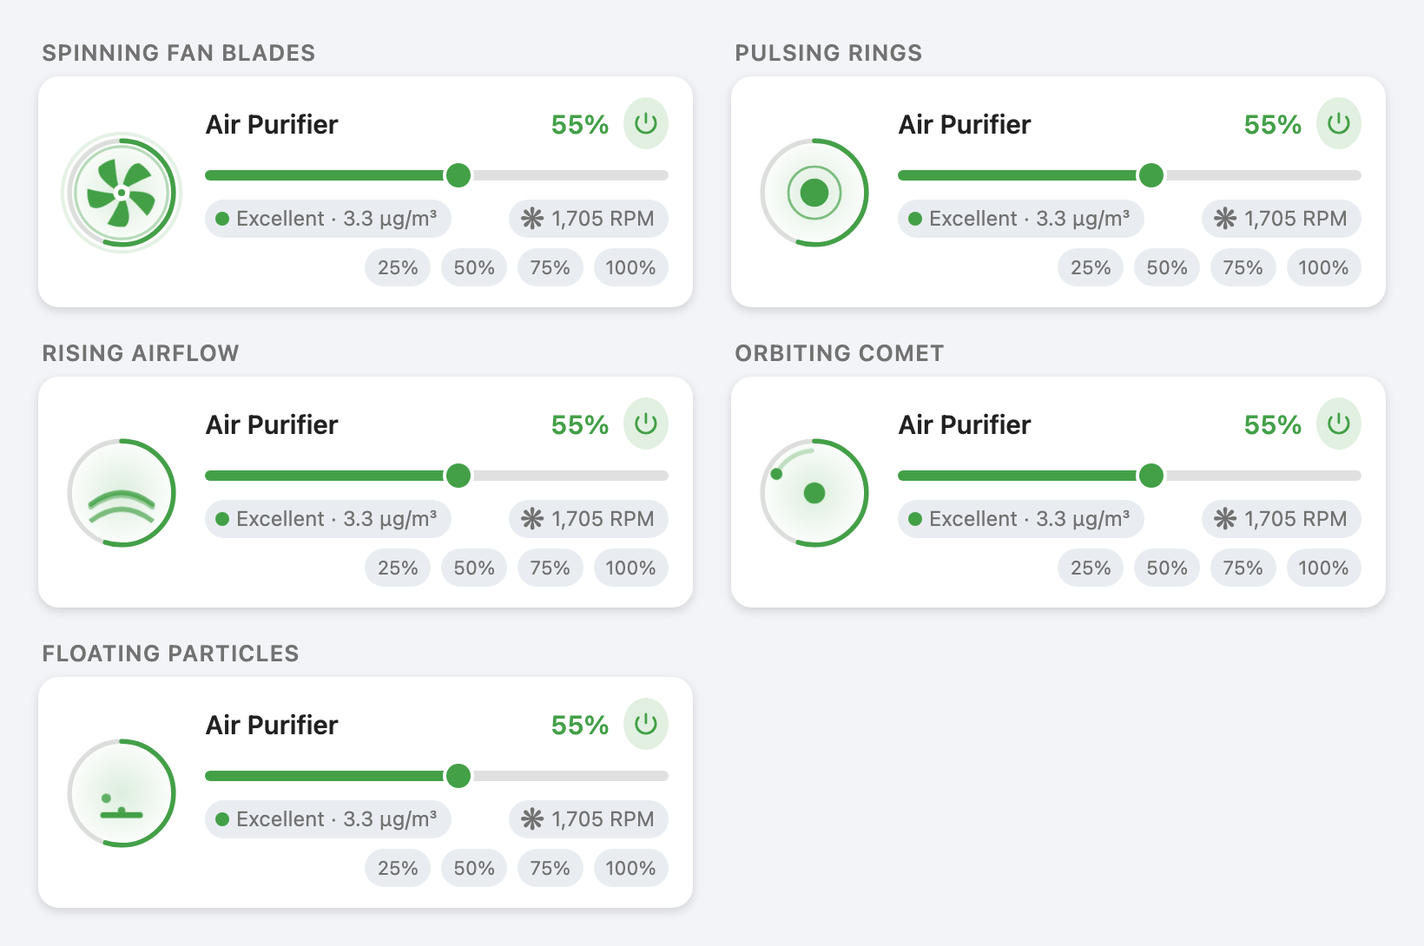
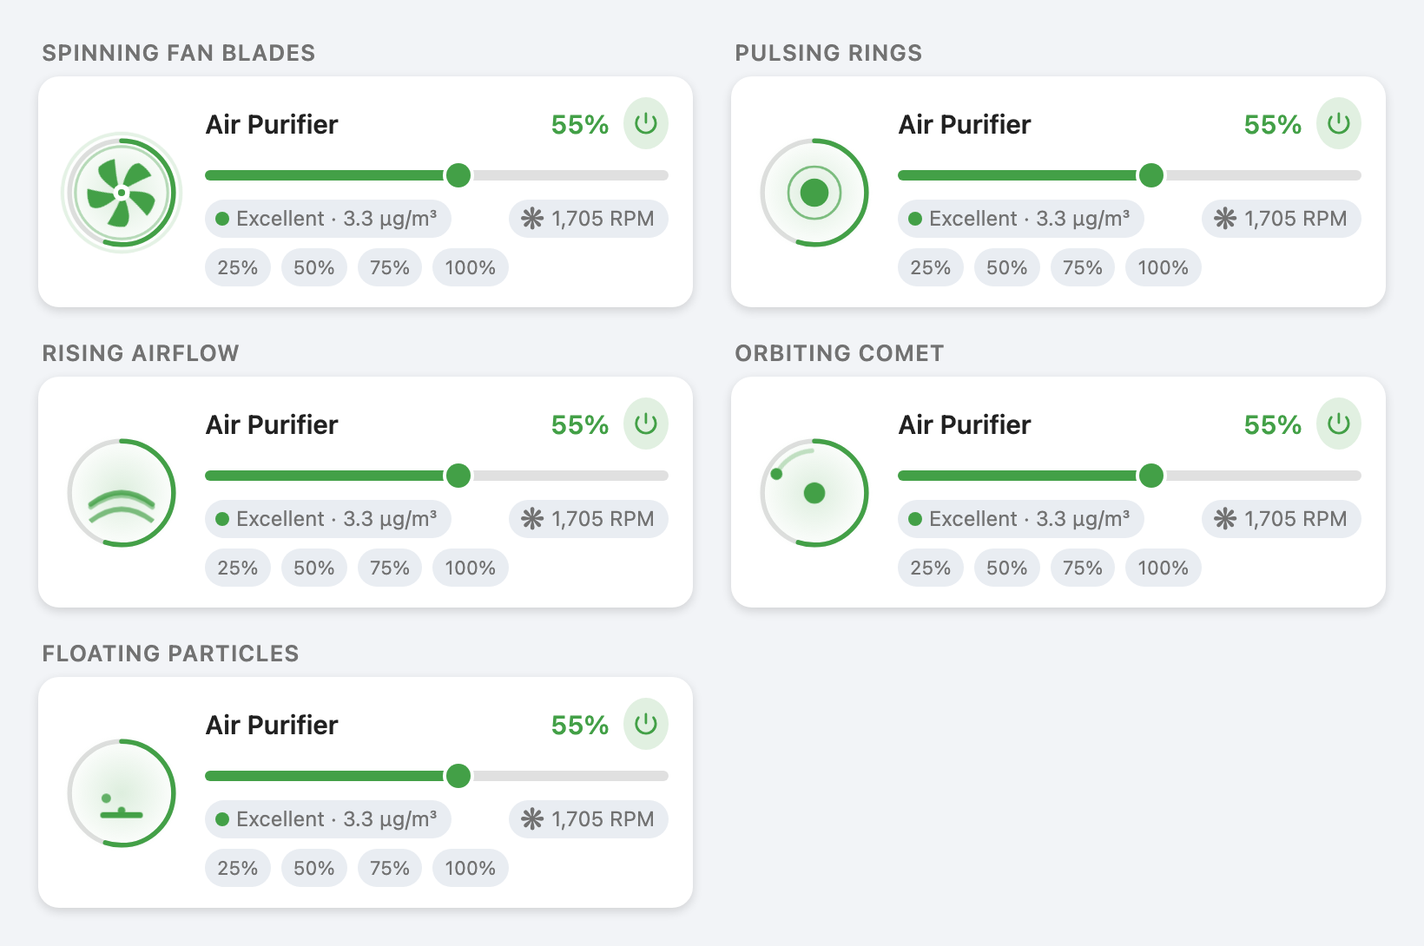
Align the speed presets to the left by default
`preset_align` still accepts left, center and right; only the default
changed, and the readme screenshots were regenerated with it.

diff --git a/dist/air-purifier-card.js b/dist/air-purifier-card.js
@@ -1,4 +1,4 @@
-/*! air-purifier-card v2.0.0 | MIT | https://github.com/iharosi/air-purifier-card */
+/*! air-purifier-card v2.1.0 | MIT | https://github.com/iharosi/air-purifier-card */
 function t(t,e,s,i){var r,n=arguments.length,a=n<3?e:null===i?i=Object.getOwnPropertyDescriptor(e,s):i;if("object"==typeof Reflect&&"function"==typeof Reflect.decorate)a=Reflect.decorate(t,e,s,i);else for(var o=t.length-1;o>=0;o--)(r=t[o])&&(a=(n<3?r(a):n>3?r(e,s,a):r(e,s))||a);return n>3&&a&&Object.defineProperty(e,s,a),a}"function"==typeof SuppressedError&&SuppressedError;const e=globalThis,s=e.ShadowRoot&&(void 0===e.ShadyCSS||e.ShadyCSS.nativeShadow)&&"adoptedStyleSheets"in Document.prototype&&"replace"in CSSStyleSheet.prototype,i=Symbol(),r=new WeakMap;let n=class{constructor(t,e,s){if(this._$cssResult$=!0,s!==i)throw Error("CSSResult is not constructable. Use `unsafeCSS` or `css` instead.");this.cssText=t,this.t=e}get styleSheet(){let t=this.o;const e=this.t;if(s&&void 0===t){const s=void 0!==e&&1===e.length;s&&(t=r.get(e)),void 0===t&&((this.o=t=new CSSStyleSheet).replaceSync(this.cssText),s&&r.set(e,t))}return t}toString(){return this.cssText}};const a=s?t=>t:t=>t instanceof CSSStyleSheet?(t=>{let e="";for(const s of t.cssRules)e+=s.cssText;return(t=>new n("string"==typeof t?t:t+"",void 0,i))(e)})(t):t,{is:o,defineProperty:c,getOwnPropertyDescriptor:l,getOwnPropertyNames:h,getOwnPropertySymbols:p,getPrototypeOf:d}=Object,u=globalThis,f=u.trustedTypes,g=f?f.emptyScript:"",m=u.reactiveElementPolyfillSupport,v=(t,e)=>t,$={toAttribute(t,e){switch(e){case Boolean:t=t?g:null;break;case Object:case Array:t=null==t?t:JSON.stringify(t)}return t},fromAttribute(t,e){let s=t;switch(e){case Boolean:s=null!==t;break;case Number:s=null===t?null:Number(t);break;case Object:case Array:try{s=JSON.parse(t)}catch(t){s=null}}return s}},y=(t,e)=>!o(t,e),_={attribute:!0,type:String,converter:$,reflect:!1,useDefault:!1,hasChanged:y};Symbol.metadata??=Symbol("metadata"),u.litPropertyMetadata??=new WeakMap;let b=class extends HTMLElement{static addInitializer(t){this._$Ei(),(this.l??=[]).push(t)}static get observedAttributes(){return this.finalize(),this._$Eh&&[...this._$Eh.keys()]}static createProperty(t,e=_){if(e.state&&(e.attribute=!1),this._$Ei(),this.prototype.hasOwnProperty(t)&&((e=Object.create(e)).wrapped=!0),this.elementProperties.set(t,e),!e.noAccessor){const s=Symbol(),i=this.getPropertyDescriptor(t,s,e);void 0!==i&&c(this.prototype,t,i)}}static getPropertyDescriptor(t,e,s){const{get:i,set:r}=l(this.prototype,t)??{get(){return this[e]},set(t){this[e]=t}};return{get:i,set(e){const n=i?.call(this);r?.call(this,e),this.requestUpdate(t,n,s)},configurable:!0,enumerable:!0}}static getPropertyOptions(t){return this.elementProperties.get(t)??_}static _$Ei(){if(this.hasOwnProperty(v("elementProperties")))return;const t=d(this);t.finalize(),void 0!==t.l&&(this.l=[...t.l]),this.elementProperties=new Map(t.elementProperties)}static finalize(){if(this.hasOwnProperty(v("finalized")))return;if(this.finalized=!0,this._$Ei(),this.hasOwnProperty(v("properties"))){const t=this.properties,e=[...h(t),...p(t)];for(const s of e)this.createProperty(s,t[s])}const t=this[Symbol.metadata];if(null!==t){const e=litPropertyMetadata.get(t);if(void 0!==e)for(const[t,s]of e)this.elementProperties.set(t,s)}this._$Eh=new Map;for(const[t,e]of this.elementProperties){const s=this._$Eu(t,e);void 0!==s&&this._$Eh.set(s,t)}this.elementStyles=this.finalizeStyles(this.styles)}static finalizeStyles(t){const e=[];if(Array.isArray(t)){const s=new Set(t.flat(1/0).reverse());for(const t of s)e.unshift(a(t))}else void 0!==t&&e.push(a(t));return e}static _$Eu(t,e){const s=e.attribute;return!1===s?void 0:"string"==typeof s?s:"string"==typeof t?t.toLowerCase():void 0}constructor(){super(),this._$Ep=void 0,this.isUpdatePending=!1,this.hasUpdated=!1,this._$Em=null,this._$Ev()}_$Ev(){this._$ES=new Promise(t=>this.enableUpdating=t),this._$AL=new Map,this._$E_(),this.requestUpdate(),this.constructor.l?.forEach(t=>t(this))}addController(t){(this._$EO??=new Set).add(t),void 0!==this.renderRoot&&this.isConnected&&t.hostConnected?.()}removeController(t){this._$EO?.delete(t)}_$E_(){const t=new Map,e=this.constructor.elementProperties;for(const s of e.keys())this.hasOwnProperty(s)&&(t.set(s,this[s]),delete this[s]);t.size>0&&(this._$Ep=t)}createRenderRoot(){const t=this.shadowRoot??this.attachShadow(this.constructor.shadowRootOptions);return((t,i)=>{if(s)t.adoptedStyleSheets=i.map(t=>t instanceof CSSStyleSheet?t:t.styleSheet);else for(const s of i){const i=document.createElement("style"),r=e.litNonce;void 0!==r&&i.setAttribute("nonce",r),i.textContent=s.cssText,t.appendChild(i)}})(t,this.constructor.elementStyles),t}connectedCallback(){this.renderRoot??=this.createRenderRoot(),this.enableUpdating(!0),this._$EO?.forEach(t=>t.hostConnected?.())}enableUpdating(t){}disconnectedCallback(){this._$EO?.forEach(t=>t.hostDisconnected?.())}attributeChangedCallback(t,e,s){this._$AK(t,s)}_$ET(t,e){const s=this.constructor.elementProperties.get(t),i=this.constructor._$Eu(t,s);if(void 0!==i&&!0===s.reflect){const r=(void 0!==s.converter?.toAttribute?s.converter:$).toAttribute(e,s.type);this._$Em=t,null==r?this.removeAttribute(i):this.setAttribute(i,r),this._$Em=null}}_$AK(t,e){const s=this.constructor,i=s._$Eh.get(t);if(void 0!==i&&this._$Em!==i){const t=s.getPropertyOptions(i),r="function"==typeof t.converter?{fromAttribute:t.converter}:void 0!==t.converter?.fromAttribute?t.converter:$;this._$Em=i;const n=r.fromAttribute(e,t.type);this[i]=n??this._$Ej?.get(i)??n,this._$Em=null}}requestUpdate(t,e,s,i=!1,r){if(void 0!==t){const n=this.constructor;if(!1===i&&(r=this[t]),s??=n.getPropertyOptions(t),!((s.hasChanged??y)(r,e)||s.useDefault&&s.reflect&&r===this._$Ej?.get(t)&&!this.hasAttribute(n._$Eu(t,s))))return;this.C(t,e,s)}!1===this.isUpdatePending&&(this._$ES=this._$EP())}C(t,e,{useDefault:s,reflect:i,wrapped:r},n){s&&!(this._$Ej??=new Map).has(t)&&(this._$Ej.set(t,n??e??this[t]),!0!==r||void 0!==n)||(this._$AL.has(t)||(this.hasUpdated||s||(e=void 0),this._$AL.set(t,e)),!0===i&&this._$Em!==t&&(this._$Eq??=new Set).add(t))}async _$EP(){this.isUpdatePending=!0;try{await this._$ES}catch(t){Promise.reject(t)}const t=this.scheduleUpdate();return null!=t&&await t,!this.isUpdatePending}scheduleUpdate(){return this.performUpdate()}performUpdate(){if(!this.isUpdatePending)return;if(!this.hasUpdated){if(this.renderRoot??=this.createRenderRoot(),this._$Ep){for(const[t,e]of this._$Ep)this[t]=e;this._$Ep=void 0}const t=this.constructor.elementProperties;if(t.size>0)for(const[e,s]of t){const{wrapped:t}=s,i=this[e];!0!==t||this._$AL.has(e)||void 0===i||this.C(e,void 0,s,i)}}let t=!1;const e=this._$AL;try{t=this.shouldUpdate(e),t?(this.willUpdate(e),this._$EO?.forEach(t=>t.hostUpdate?.()),this.update(e)):this._$EM()}catch(e){throw t=!1,this._$EM(),e}t&&this._$AE(e)}willUpdate(t){}_$AE(t){this._$EO?.forEach(t=>t.hostUpdated?.()),this.hasUpdated||(this.hasUpdated=!0,this.firstUpdated(t)),this.updated(t)}_$EM(){this._$AL=new Map,this.isUpdatePending=!1}get updateComplete(){return this.getUpdateComplete()}getUpdateComplete(){return this._$ES}shouldUpdate(t){return!0}update(t){this._$Eq&&=this._$Eq.forEach(t=>this._$ET(t,this[t])),this._$EM()}updated(t){}firstUpdated(t){}};b.elementStyles=[],b.shadowRootOptions={mode:"open"},b[v("elementProperties")]=new Map,b[v("finalized")]=new Map,m?.({ReactiveElement:b}),(u.reactiveElementVersions??=[]).push("2.1.2");const x=globalThis,w=t=>t,A=x.trustedTypes,E=A?A.createPolicy("lit-html",{createHTML:t=>t}):void 0,S="$lit$",k=`lit$${Math.random().toFixed(9).slice(2)}$`,P="?"+k,C=`<${P}>`,M=document,U=()=>M.createComment(""),O=t=>null===t||"object"!=typeof t&&"function"!=typeof t,R=Array.isArray,N="[ \t\n\f\r]",T=/<(?:(!--|\/[^a-zA-Z])|(\/?[a-zA-Z][^>\s]*)|(\/?$))/g,H=/-->/g,I=/>/g,j=RegExp(`>|${N}(?:([^\\s"'>=/]+)(${N}*=${N}*(?:[^ \t\n\f\r"'\`<>=]|("|')|))|$)`,"g"),z=/'/g,D=/"/g,L=/^(?:script|style|textarea|title)$/i,B=t=>(e,...s)=>({_$litType$:t,strings:e,values:s}),q=B(1),W=B(2),F=Symbol.for("lit-noChange"),V=Symbol.for("lit-nothing"),Y=new WeakMap,Z=M.createTreeWalker(M,129);function Q(t,e){if(!R(t)||!t.hasOwnProperty("raw"))throw Error("invalid template strings array");return void 0!==E?E.createHTML(e):e}const J=(t,e)=>{const s=t.length-1,i=[];let r,n=2===e?"<svg>":3===e?"<math>":"",a=T;for(let e=0;e<s;e++){const s=t[e];let o,c,l=-1,h=0;for(;h<s.length&&(a.lastIndex=h,c=a.exec(s),null!==c);)h=a.lastIndex,a===T?"!--"===c[1]?a=H:void 0!==c[1]?a=I:void 0!==c[2]?(L.test(c[2])&&(r=RegExp("</"+c[2],"g")),a=j):void 0!==c[3]&&(a=j):a===j?">"===c[0]?(a=r??T,l=-1):void 0===c[1]?l=-2:(l=a.lastIndex-c[2].length,o=c[1],a=void 0===c[3]?j:'"'===c[3]?D:z):a===D||a===z?a=j:a===H||a===I?a=T:(a=j,r=void 0);const p=a===j&&t[e+1].startsWith("/>")?" ":"";n+=a===T?s+C:l>=0?(i.push(o),s.slice(0,l)+S+s.slice(l)+k+p):s+k+(-2===l?e:p)}return[Q(t,n+(t[s]||"<?>")+(2===e?"</svg>":3===e?"</math>":"")),i]};class K{constructor({strings:t,_$litType$:e},s){let i;this.parts=[];let r=0,n=0;const a=t.length-1,o=this.parts,[c,l]=J(t,e);if(this.el=K.createElement(c,s),Z.currentNode=this.el.content,2===e||3===e){const t=this.el.content.firstChild;t.replaceWith(...t.childNodes)}for(;null!==(i=Z.nextNode())&&o.length<a;){if(1===i.nodeType){if(i.hasAttributes())for(const t of i.getAttributeNames())if(t.endsWith(S)){const e=l[n++],s=i.getAttribute(t).split(k),a=/([.?@])?(.*)/.exec(e);o.push({type:1,index:r,name:a[2],strings:s,ctor:"."===a[1]?st:"?"===a[1]?it:"@"===a[1]?rt:et}),i.removeAttribute(t)}else t.startsWith(k)&&(o.push({type:6,index:r}),i.removeAttribute(t));if(L.test(i.tagName)){const t=i.textContent.split(k),e=t.length-1;if(e>0){i.textContent=A?A.emptyScript:"";for(let s=0;s<e;s++)i.append(t[s],U()),Z.nextNode(),o.push({type:2,index:++r});i.append(t[e],U())}}}else if(8===i.nodeType)if(i.data===P)o.push({type:2,index:r});else{let t=-1;for(;-1!==(t=i.data.indexOf(k,t+1));)o.push({type:7,index:r}),t+=k.length-1}r++}}static createElement(t,e){const s=M.createElement("template");return s.innerHTML=t,s}}function G(t,e,s=t,i){if(e===F)return e;let r=void 0!==i?s._$Co?.[i]:s._$Cl;const n=O(e)?void 0:e._$litDirective$;return r?.constructor!==n&&(r?._$AO?.(!1),void 0===n?r=void 0:(r=new n(t),r._$AT(t,s,i)),void 0!==i?(s._$Co??=[])[i]=r:s._$Cl=r),void 0!==r&&(e=G(t,r._$AS(t,e.values),r,i)),e}class X{constructor(t,e){this._$AV=[],this._$AN=void 0,this._$AD=t,this._$AM=e}get parentNode(){return this._$AM.parentNode}get _$AU(){return this._$AM._$AU}u(t){const{el:{content:e},parts:s}=this._$AD,i=(t?.creationScope??M).importNode(e,!0);Z.currentNode=i;let r=Z.nextNode(),n=0,a=0,o=s[0];for(;void 0!==o;){if(n===o.index){let e;2===o.type?e=new tt(r,r.nextSibling,this,t):1===o.type?e=new o.ctor(r,o.name,o.strings,this,t):6===o.type&&(e=new nt(r,this,t)),this._$AV.push(e),o=s[++a]}n!==o?.index&&(r=Z.nextNode(),n++)}return Z.currentNode=M,i}p(t){let e=0;for(const s of this._$AV)void 0!==s&&(void 0!==s.strings?(s._$AI(t,s,e),e+=s.strings.length-2):s._$AI(t[e])),e++}}class tt{get _$AU(){return this._$AM?._$AU??this._$Cv}constructor(t,e,s,i){this.type=2,this._$AH=V,this._$AN=void 0,this._$AA=t,this._$AB=e,this._$AM=s,this.options=i,this._$Cv=i?.isConnected??!0}get parentNode(){let t=this._$AA.parentNode;const e=this._$AM;return void 0!==e&&11===t?.nodeType&&(t=e.parentNode),t}get startNode(){return this._$AA}get endNode(){return this._$AB}_$AI(t,e=this){t=G(this,t,e),O(t)?t===V||null==t||""===t?(this._$AH!==V&&this._$AR(),this._$AH=V):t!==this._$AH&&t!==F&&this._(t):void 0!==t._$litType$?this.$(t):void 0!==t.nodeType?this.T(t):(t=>R(t)||"function"==typeof t?.[Symbol.iterator])(t)?this.k(t):this._(t)}O(t){return this._$AA.parentNode.insertBefore(t,this._$AB)}T(t){this._$AH!==t&&(this._$AR(),this._$AH=this.O(t))}_(t){this._$AH!==V&&O(this._$AH)?this._$AA.nextSibling.data=t:this.T(M.createTextNode(t)),this._$AH=t}$(t){const{values:e,_$litType$:s}=t,i="number"==typeof s?this._$AC(t):(void 0===s.el&&(s.el=K.createElement(Q(s.h,s.h[0]),this.options)),s);if(this._$AH?._$AD===i)this._$AH.p(e);else{const t=new X(i,this),s=t.u(this.options);t.p(e),this.T(s),this._$AH=t}}_$AC(t){let e=Y.get(t.strings);return void 0===e&&Y.set(t.strings,e=new K(t)),e}k(t){R(this._$AH)||(this._$AH=[],this._$AR());const e=this._$AH;let s,i=0;for(const r of t)i===e.length?e.push(s=new tt(this.O(U()),this.O(U()),this,this.options)):s=e[i],s._$AI(r),i++;i<e.length&&(this._$AR(s&&s._$AB.nextSibling,i),e.length=i)}_$AR(t=this._$AA.nextSibling,e){for(this._$AP?.(!1,!0,e);t!==this._$AB;){const e=w(t).nextSibling;w(t).remove(),t=e}}setConnected(t){void 0===this._$AM&&(this._$Cv=t,this._$AP?.(t))}}class et{get tagName(){return this.element.tagName}get _$AU(){return this._$AM._$AU}constructor(t,e,s,i,r){this.type=1,this._$AH=V,this._$AN=void 0,this.element=t,this.name=e,this._$AM=i,this.options=r,s.length>2||""!==s[0]||""!==s[1]?(this._$AH=Array(s.length-1).fill(new String),this.strings=s):this._$AH=V}_$AI(t,e=this,s,i){const r=this.strings;let n=!1;if(void 0===r)t=G(this,t,e,0),n=!O(t)||t!==this._$AH&&t!==F,n&&(this._$AH=t);else{const i=t;let a,o;for(t=r[0],a=0;a<r.length-1;a++)o=G(this,i[s+a],e,a),o===F&&(o=this._$AH[a]),n||=!O(o)||o!==this._$AH[a],o===V?t=V:t!==V&&(t+=(o??"")+r[a+1]),this._$AH[a]=o}n&&!i&&this.j(t)}j(t){t===V?this.element.removeAttribute(this.name):this.element.setAttribute(this.name,t??"")}}class st extends et{constructor(){super(...arguments),this.type=3}j(t){this.element[this.name]=t===V?void 0:t}}class it extends et{constructor(){super(...arguments),this.type=4}j(t){this.element.toggleAttribute(this.name,!!t&&t!==V)}}class rt extends et{constructor(t,e,s,i,r){super(t,e,s,i,r),this.type=5}_$AI(t,e=this){if((t=G(this,t,e,0)??V)===F)return;const s=this._$AH,i=t===V&&s!==V||t.capture!==s.capture||t.once!==s.once||t.passive!==s.passive,r=t!==V&&(s===V||i);i&&this.element.removeEventListener(this.name,this,s),r&&this.element.addEventListener(this.name,this,t),this._$AH=t}handleEvent(t){"function"==typeof this._$AH?this._$AH.call(this.options?.host??this.element,t):this._$AH.handleEvent(t)}}class nt{constructor(t,e,s){this.element=t,this.type=6,this._$AN=void 0,this._$AM=e,this.options=s}get _$AU(){return this._$AM._$AU}_$AI(t){G(this,t)}}const at=x.litHtmlPolyfillSupport;at?.(K,tt),(x.litHtmlVersions??=[]).push("3.3.3");const ot=globalThis;let ct=class extends b{constructor(){super(...arguments),this.renderOptions={host:this},this._$Do=void 0}createRenderRoot(){const t=super.createRenderRoot();return this.renderOptions.renderBefore??=t.firstChild,t}update(t){const e=this.render();this.hasUpdated||(this.renderOptions.isConnected=this.isConnected),super.update(t),this._$Do=((t,e,s)=>{const i=s?.renderBefore??e;let r=i._$litPart$;if(void 0===r){const t=s?.renderBefore??null;i._$litPart$=r=new tt(e.insertBefore(U(),t),t,void 0,s??{})}return r._$AI(t),r})(e,this.renderRoot,this.renderOptions)}connectedCallback(){super.connectedCallback(),this._$Do?.setConnected(!0)}disconnectedCallback(){super.disconnectedCallback(),this._$Do?.setConnected(!1)}render(){return F}};ct._$litElement$=!0,ct.finalized=!0,ot.litElementHydrateSupport?.({LitElement:ct});const lt=ot.litElementPolyfillSupport;lt?.({LitElement:ct}),(ot.litElementVersions??=[]).push("4.2.2");const ht=t=>(e,s)=>{void 0!==s?s.addInitializer(()=>{customElements.define(t,e)}):customElements.define(t,e)},pt={attribute:!0,type:String,converter:$,reflect:!1,hasChanged:y},dt=(t=pt,e,s)=>{const{kind:i,metadata:r}=s;let n=globalThis.litPropertyMetadata.get(r);if(void 0===n&&globalThis.litPropertyMetadata.set(r,n=new Map),"setter"===i&&((t=Object.create(t)).wrapped=!0),n.set(s.name,t),"accessor"===i){const{name:i}=s;return{set(s){const r=e.get.call(this);e.set.call(this,s),this.requestUpdate(i,r,t,!0,s)},init(e){return void 0!==e&&this.C(i,void 0,t,e),e}}}if("setter"===i){const{name:i}=s;return function(s){const r=this[i];e.call(this,s),this.requestUpdate(i,r,t,!0,s)}}throw Error("Unsupported decorator location: "+i)};function ut(t){return(e,s)=>"object"==typeof s?dt(t,e,s):((t,e,s)=>{const i=e.hasOwnProperty(s);return e.constructor.createProperty(s,t),i?Object.getOwnPropertyDescriptor(e,s):void 0})(t,e,s)}function ft(t){return ut({...t,state:!0,attribute:!1})}const gt=1,mt=t=>(...e)=>({_$litDirective$:t,values:e});let vt=class{constructor(t){}get _$AU(){return this._$AM._$AU}_$AT(t,e,s){this._$Ct=t,this._$AM=e,this._$Ci=s}_$AS(t,e){return this.update(t,e)}update(t,e){return this.render(...e)}};const $t=mt(class extends vt{constructor(t){if(super(t),t.type!==gt||"class"!==t.name||t.strings?.length>2)throw Error("`classMap()` can only be used in the `class` attribute and must be the only part in the attribute.")}render(t){return" "+Object.keys(t).filter(e=>t[e]).join(" ")+" "}update(t,[e]){if(void 0===this.st){this.st=new Set,void 0!==t.strings&&(this.nt=new Set(t.strings.join(" ").split(/\s/).filter(t=>""!==t)));for(const t in e)e[t]&&!this.nt?.has(t)&&this.st.add(t);return this.render(e)}const s=t.element.classList;for(const t of this.st)t in e||(s.remove(t),this.st.delete(t));for(const t in e){const i=!!e[t];i===this.st.has(t)||this.nt?.has(t)||(i?(s.add(t),this.st.add(t)):(s.remove(t),this.st.delete(t)))}return F}}),yt="important",_t=" !"+yt,bt=mt(class extends vt{constructor(t){if(super(t),t.type!==gt||"style"!==t.name||t.strings?.length>2)throw Error("The `styleMap` directive must be used in the `style` attribute and must be the only part in the attribute.")}render(t){return Object.keys(t).reduce((e,s)=>{const i=t[s];return null==i?e:e+`${s=s.includes("-")?s:s.replace(/(?:^(webkit|moz|ms|o)|)(?=[A-Z])/g,"-$&").toLowerCase()}:${i};`},"")}update(t,[e]){const{style:s}=t.element;if(void 0===this.ft)return this.ft=new Set(Object.keys(e)),this.render(e);for(const t of this.ft)null==e[t]&&(this.ft.delete(t),t.includes("-")?s.removeProperty(t):s[t]=null);for(const t in e){const i=e[t];if(null!=i){this.ft.add(t);const e="string"==typeof i&&i.endsWith(_t);t.includes("-")||e?s.setProperty(t,e?i.slice(0,-11):i,e?yt:""):s[t]=i}}return F}}),xt="M0 -7 C2 -20 5 -26 10.9 -26.9 A29 29 0 0 1 22.9 -17.9 C16 -14 9 -9 4.8 -5.7 Z",wt={blades:W`
     <g class="blades">
       <g transform="translate(50,50)">
@@ -442,7 +442,7 @@ function t(t,e,s,i){var r,n=arguments.length,a=n<3?e:null===i?i=Object.getOwnPro
         .computeLabel=${t=>Ht[t.name]??t.name}
         @value-changed=${this._valueChanged}
       ></ha-form>
-    `:V}_valueChanged(t){t.stopPropagation(),Rt(this,"config-changed",{config:t.detail.value})}};t([ut({attribute:!1})],It.prototype,"hass",void 0),t([ft()],It.prototype,"_config",void 0),It=t([ht(Et)],It);const jt=2*Math.PI*44;let zt=class extends ct{static getConfigElement(){return document.createElement(Et)}static getStubConfig(t){const e=(e,...s)=>{const i=Object.keys(t?.states??{}).filter(t=>t.startsWith(`${e}.`));return i.find(t=>s.every(e=>t.includes(e)))??i[0]??""};return{type:`custom:${At}`,name:"Air Purifier",fan:e("fan","purifier"),rpm:e("sensor","rpm"),pm25:e("sensor","pm")}}setConfig(t){const e=t.fan??t.entity;if(!e)throw new Error("You need to define a `fan` entity (domain: fan).");if(!e.startsWith("fan."))throw new Error("`fan` must be an entity from the `fan` domain.");this._config={...t,type:t.type??`custom:${At}`,fan:e,animation:Ct.includes(t.animation)?t.animation:"blades",show_presets:!1!==t.show_presets,presets:t.presets??St,preset_align:t.preset_align&&t.preset_align in Ut?t.preset_align:"right"}}getCardSize(){return 2}willUpdate(t){t.has("hass")&&void 0!==this._sliding&&this._percentage()===this._sliding&&(this._sliding=void 0)}render(){const t=this._config;if(!this.hass||!t)return V;const e=this.hass.states[t.fan],s=t.rpm?this.hass.states[t.rpm]:void 0,i=t.pm25?this.hass.states[t.pm25]:void 0,r=!e||"unavailable"===e.state||"unknown"===e.state,n="on"===e?.state,a=this._sliding??this._percentage(),o=null===(c=Nt(i))?Pt:kt.find(t=>c<=t.max)??Pt;var c;const l=n?i?o.color:void 0:"var(--ap-idle-color)";return q`
+    `:V}_valueChanged(t){t.stopPropagation(),Rt(this,"config-changed",{config:t.detail.value})}};t([ut({attribute:!1})],It.prototype,"hass",void 0),t([ft()],It.prototype,"_config",void 0),It=t([ht(Et)],It);const jt=2*Math.PI*44;let zt=class extends ct{static getConfigElement(){return document.createElement(Et)}static getStubConfig(t){const e=(e,...s)=>{const i=Object.keys(t?.states??{}).filter(t=>t.startsWith(`${e}.`));return i.find(t=>s.every(e=>t.includes(e)))??i[0]??""};return{type:`custom:${At}`,name:"Air Purifier",fan:e("fan","purifier"),rpm:e("sensor","rpm"),pm25:e("sensor","pm")}}setConfig(t){const e=t.fan??t.entity;if(!e)throw new Error("You need to define a `fan` entity (domain: fan).");if(!e.startsWith("fan."))throw new Error("`fan` must be an entity from the `fan` domain.");this._config={...t,type:t.type??`custom:${At}`,fan:e,animation:Ct.includes(t.animation)?t.animation:"blades",show_presets:!1!==t.show_presets,presets:t.presets??St,preset_align:t.preset_align&&t.preset_align in Ut?t.preset_align:"left"}}getCardSize(){return 2}willUpdate(t){t.has("hass")&&void 0!==this._sliding&&this._percentage()===this._sliding&&(this._sliding=void 0)}render(){const t=this._config;if(!this.hass||!t)return V;const e=this.hass.states[t.fan],s=t.rpm?this.hass.states[t.rpm]:void 0,i=t.pm25?this.hass.states[t.pm25]:void 0,r=!e||"unavailable"===e.state||"unknown"===e.state,n="on"===e?.state,a=this._sliding??this._percentage(),o=null===(c=Nt(i))?Pt:kt.find(t=>c<=t.max)??Pt;var c;const l=n?i?o.color:void 0:"var(--ap-idle-color)";return q`
       <ha-card
         class=${$t({unavailable:r})}
         style=${bt(l?{"--ap-accent":l}:{})}
@@ -543,4 +543,4 @@ function t(t,e,s,i){var r,n=arguments.length,a=n<3?e:null===i?i=Object.getOwnPro
             </button>
           `)}
       </div>
-    `:V}_percentage(){const t=this.hass?.states[this._config.fan],e="on"===t?.state;return Math.round(t?.attributes.percentage??(e?100:0))}_sliderInput(t){this._sliding=Number(t.target.value)}_sliderChange(t){this._setPercentage(Number(t.target.value))}_toggle(){this.hass?.callService("fan","toggle",{entity_id:this._config.fan})}_setPercentage(t){this._sliding=t,this.hass?.callService("fan","set_percentage",{entity_id:this._config.fan,percentage:t})}_moreInfo(t){t&&Rt(this,"hass-more-info",{entityId:t})}_moreInfoFan(){this._moreInfo(this._config?.fan)}_moreInfoRpm(){this._moreInfo(this._config?.rpm)}_moreInfoPm(){this._moreInfo(this._config?.pm25)}};zt.styles=Ot,t([ut({attribute:!1})],zt.prototype,"hass",void 0),t([ft()],zt.prototype,"_config",void 0),t([ft()],zt.prototype,"_sliding",void 0),zt=t([ht(At)],zt),console.info("%c AIR-PURIFIER-CARD %c v2.0.0 ","color: white; background: #03a9f4; font-weight: 700;","color: #03a9f4; background: #1c1c1c; font-weight: 700;"),window.customCards=window.customCards??[],window.customCards.push({type:At,name:"Air Purifier Card",description:"Compact animated card to control a fan-based air purifier with RPM and PM2.5 readouts.",preview:!0,documentationURL:"https://github.com/iharosi/air-purifier-card"});export{zt as AirPurifierCard};
+    `:V}_percentage(){const t=this.hass?.states[this._config.fan],e="on"===t?.state;return Math.round(t?.attributes.percentage??(e?100:0))}_sliderInput(t){this._sliding=Number(t.target.value)}_sliderChange(t){this._setPercentage(Number(t.target.value))}_toggle(){this.hass?.callService("fan","toggle",{entity_id:this._config.fan})}_setPercentage(t){this._sliding=t,this.hass?.callService("fan","set_percentage",{entity_id:this._config.fan,percentage:t})}_moreInfo(t){t&&Rt(this,"hass-more-info",{entityId:t})}_moreInfoFan(){this._moreInfo(this._config?.fan)}_moreInfoRpm(){this._moreInfo(this._config?.rpm)}_moreInfoPm(){this._moreInfo(this._config?.pm25)}};zt.styles=Ot,t([ut({attribute:!1})],zt.prototype,"hass",void 0),t([ft()],zt.prototype,"_config",void 0),t([ft()],zt.prototype,"_sliding",void 0),zt=t([ht(At)],zt),console.info("%c AIR-PURIFIER-CARD %c v2.1.0 ","color: white; background: #03a9f4; font-weight: 700;","color: #03a9f4; background: #1c1c1c; font-weight: 700;"),window.customCards=window.customCards??[],window.customCards.push({type:At,name:"Air Purifier Card",description:"Compact animated card to control a fan-based air purifier with RPM and PM2.5 readouts.",preview:!0,documentationURL:"https://github.com/iharosi/air-purifier-card"});export{zt as AirPurifierCard};

diff --git a/src/const.ts b/src/const.ts
@@ -1,6 +1,6 @@
 import type { AirQualityLevel, AnimationName, PresetAlign } from "./types";
 
-export const CARD_VERSION = "2.0.0";
+export const CARD_VERSION = "2.1.0";
 
 export const CARD_NAME = "air-purifier-card";
 export const EDITOR_NAME = `${CARD_NAME}-editor`;

diff --git a/src/air-purifier-card.ts b/src/air-purifier-card.ts
@@ -81,7 +81,7 @@ export class AirPurifierCard extends LitElement {
       preset_align:
         config.preset_align && config.preset_align in PRESET_ALIGN
           ? (config.preset_align as PresetAlign)
-          : "right",
+          : "left",
     };
   }
 

diff --git a/README.md b/README.md
@@ -51,7 +51,7 @@ pm25: sensor.office_air_quality_sensor_pm_summary
 | `animation` | string | `blades` | Dial animation, see below |
 | `show_presets` | boolean | `true` | Show the preset speed pills |
 | `presets` | list | `[25, 50, 75, 100]` | Preset percentages |
-| `preset_align` | string | `right` | Preset row alignment: `left`, `center` or `right` |
+| `preset_align` | string | `left` | Preset row alignment: `left`, `center` or `right` |
 
 ## Animations
 
@@ -74,7 +74,7 @@ fan: fan.air_purifier_1_pwm_fan
 rpm: sensor.air_purifier_1_fan_rpm
 pm25: sensor.office_air_quality_sensor_pm_summary
 animation: waves
-preset_align: center
+preset_align: right
 ```
 
 ## Air quality colours
